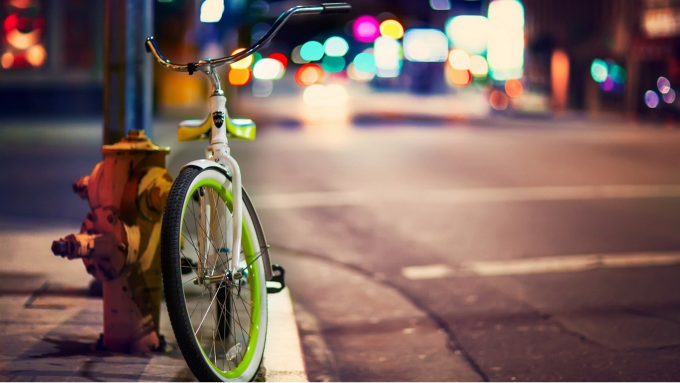
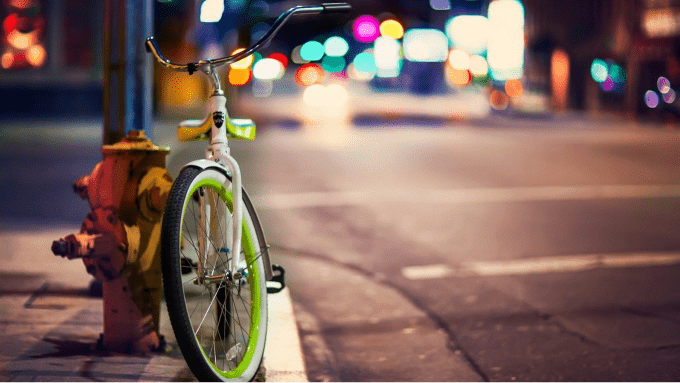
fix: corrige caminho da imagem e optimiza a mesma

diff --git a/index.html b/index.html
@@ -31,7 +31,7 @@
         <div class="container">
             <h1 class="heading1">A história da bicicleta no Brasil</h1>
             
-            <img src="../assets/bike.png" alt="bicicleta branca encostada em um hidrante amarelo" />
+            <img src="./assets/bike.png" alt="bicicleta branca encostada em um hidrante amarelo" />
 
             <p>No final do século XIX, a bicicleta chegou ao Brasil vinda da Europa. Os primeiros relatos de sua existência em território brasileiro são no Paraná, mais precisamente em Curitiba, cidade que recebeu muitos imigrantes europeus desde a segunda metade do século XIX, e em São Paulo.</p>
 
